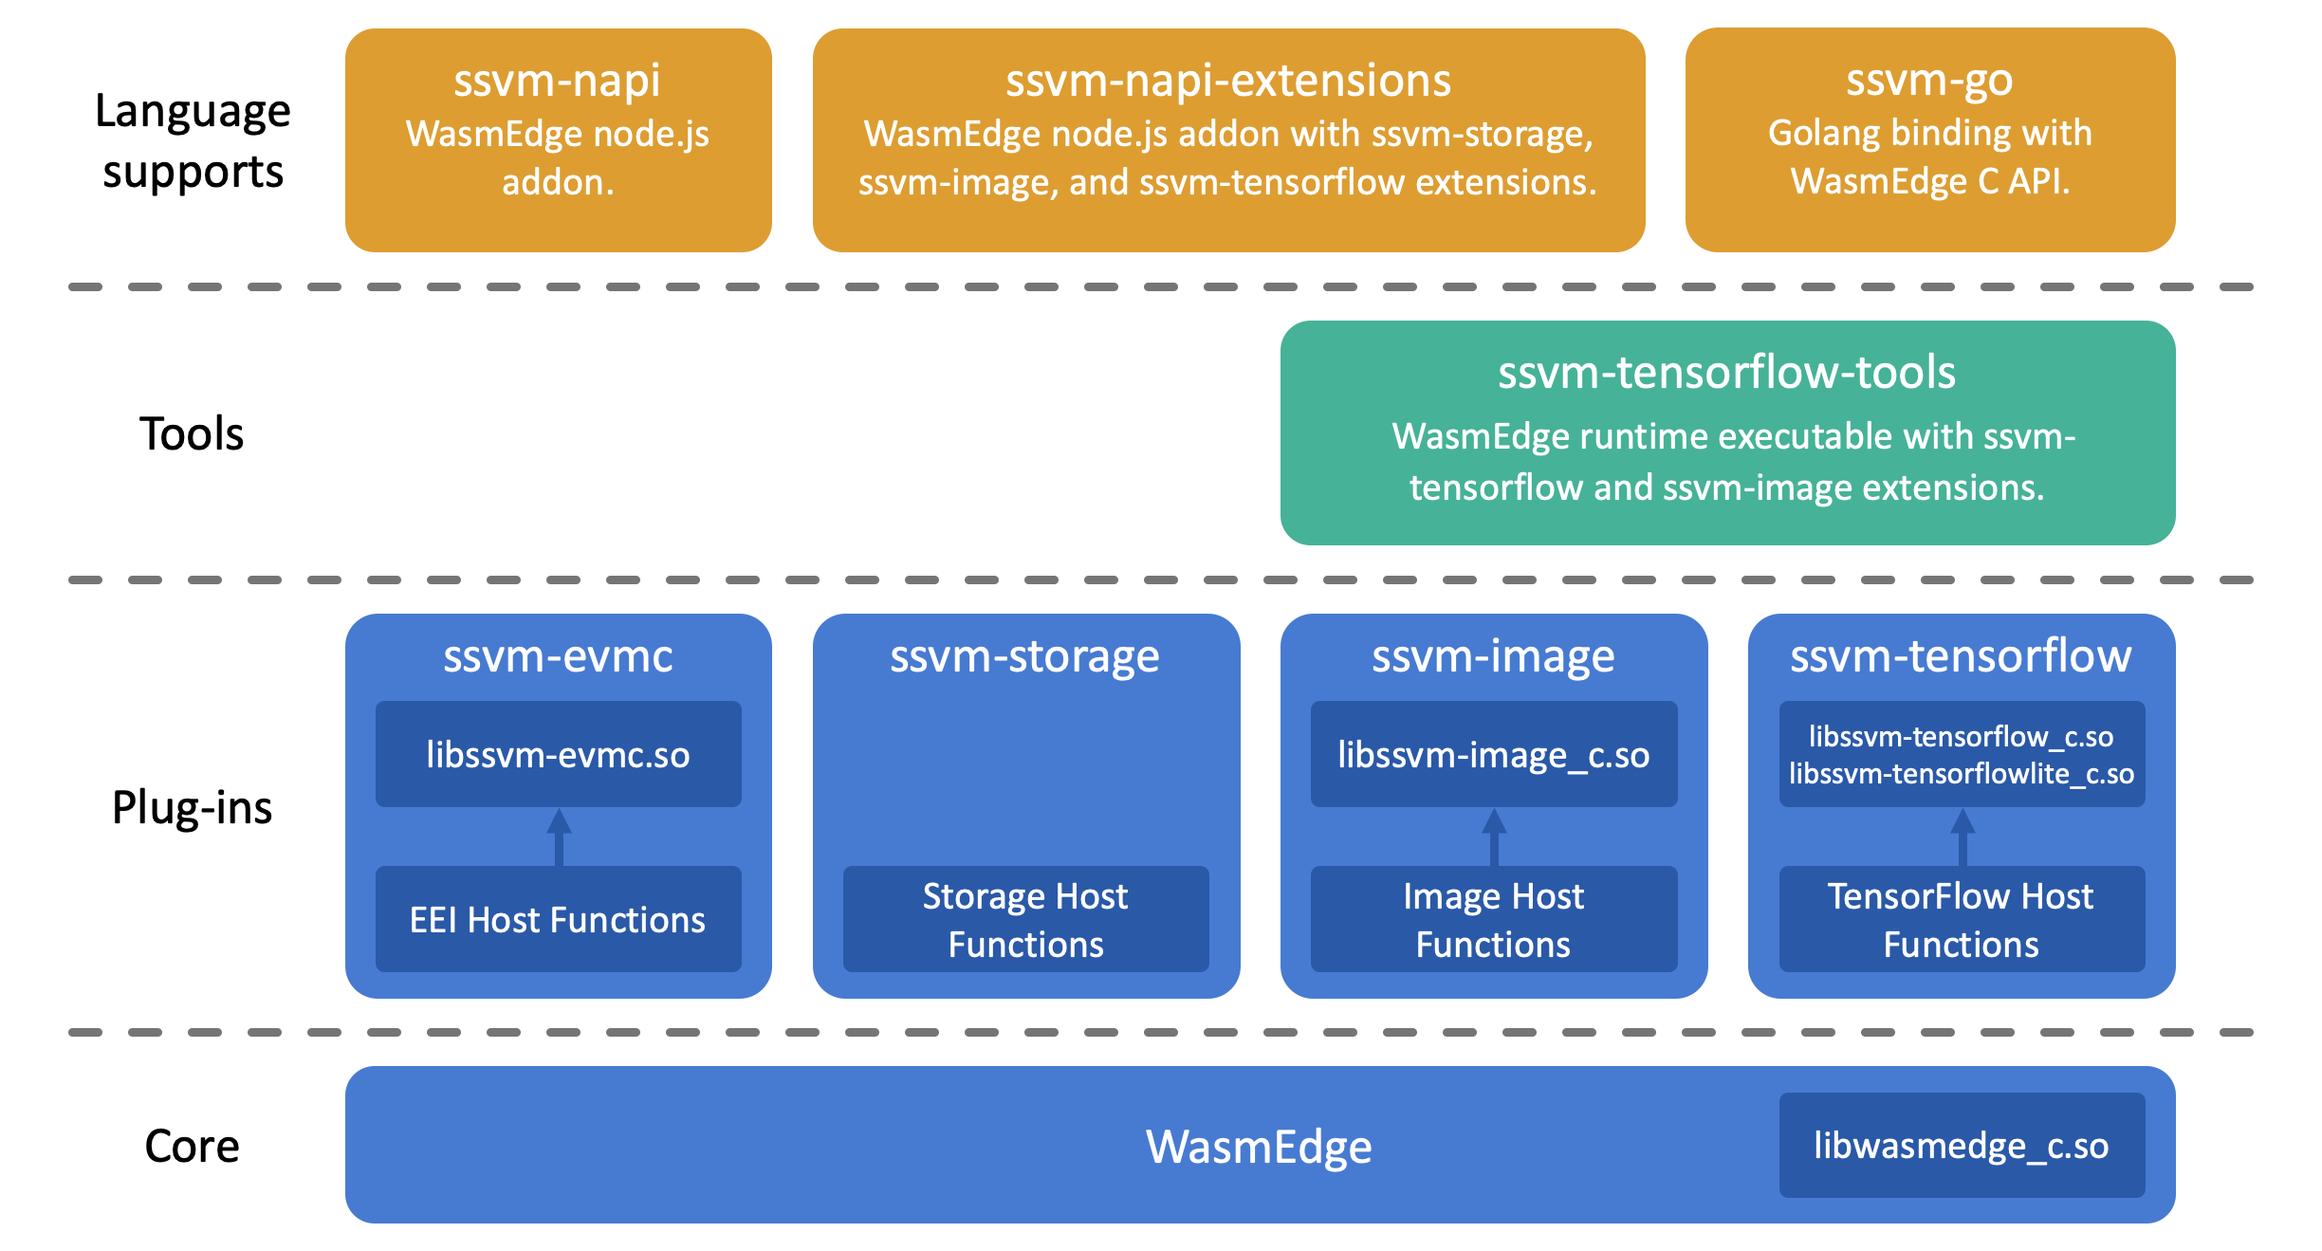
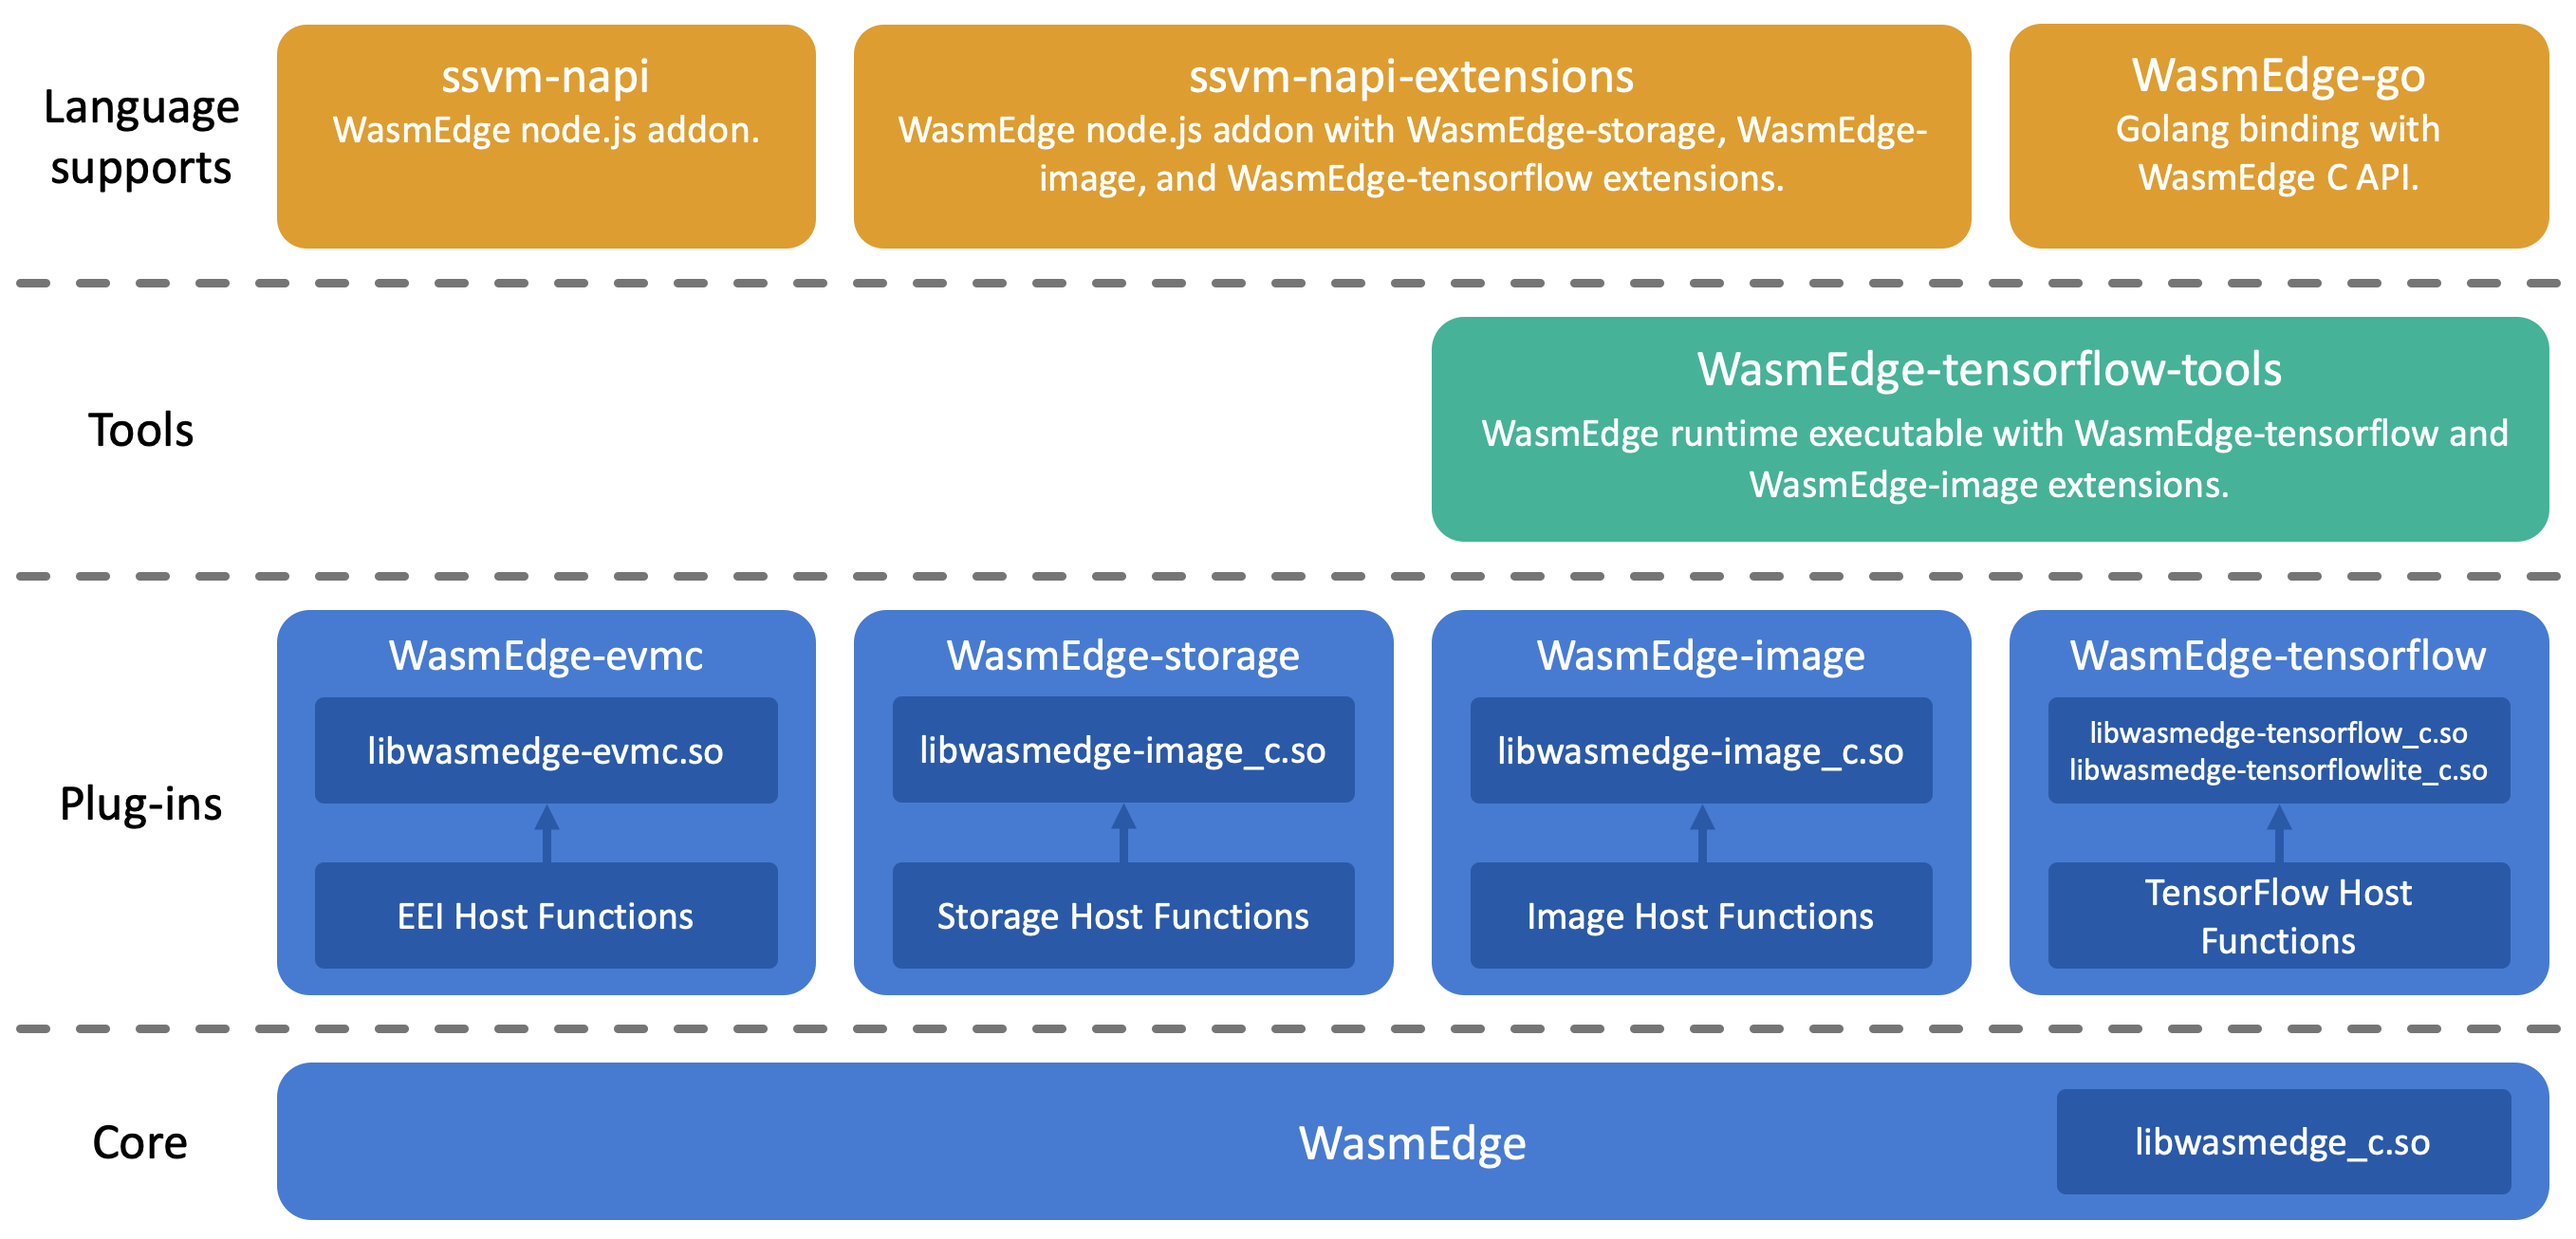
[Doc] Update the ecosystem documentation.

diff --git a/doc/ecosystem.md b/doc/ecosystem.md
@@ -8,26 +8,26 @@
 
 * Core: The [WasmEdge core project](https://github.com/WasmEdge/WasmEdge).
 * Plug-ins: The extensions of `WASM` host functions with their dependencies.
-  * [SSVM-TensorFlow](https://github.com/second-state/SSVM-tensorflow) contains the host function extensions which access to [TensorFlow C library](https://www.tensorflow.org/install/lang_c).
-  * [SSVM-Image](https://github.com/second-state/SSVM-image) contains the host function extensions about `JPEG` and `PNG` image decodings.
-  * [SSVM-Storage](https://github.com/second-state/SSVM-storage) contains the host function extensions which access to [Rust storage library](https://github.com/second-state/rust_native_storage_library).
-  * [SSVM-EVMC](https://github.com/second-state/SSVM-evmc) contains the host function extensions that are compatible with [Ethereum Environment Interface](https://github.com/ewasm/design/blob/master/eth_interface.md).
+  * [WasmEdge-TensorFlow](https://github.com/second-state/WasmEdge-tensorflow) contains the host function extensions which access to [TensorFlow C library](https://www.tensorflow.org/install/lang_c).
+  * [WasmEdge-Image](https://github.com/second-state/WasmEdge-image) contains the host function extensions about `JPEG` and `PNG` image decodings.
+  * [WasmEdge-Storage](https://github.com/second-state/WasmEdge-storage) contains the host function extensions which access to [Rust storage library](https://github.com/second-state/rust_native_storage_library).
+  * [WasmEdge-EVMC](https://github.com/second-state/WasmEdge-evmc) contains the host function extensions that are compatible with [Ethereum Environment Interface](https://github.com/ewasm/design/blob/master/eth_interface.md).
 * Tools: The runtime executables.
-  * [SSVM-TensorFlow-Tools](https://github.com/second-state/SSVM-tensorflow-tools) are the released tools to execute WASM with accessing to `TensorFlow` or `TensorFlow-Lite`.
+  * [WasmEdge-TensorFlow-Tools](https://github.com/second-state/WasmEdge-tensorflow-tools) are the released tools to execute WASM with accessing to `TensorFlow` or `TensorFlow-Lite`.
 * Language supports: The `WasmEdge` triggering in other languages.
   * [SSVM-napi](https://github.com/second-state/SSVM-napi) is the Node.js addon project for `WASM` functions accessing.
   * [SSVM-napi-extensions](https://github.com/second-state/SSVM-napi-extensions) is the Node.js addon project for `WASM` runtime with `ssvm-tensorflow`, `ssvm-image`, and `ssvm-storage` extensions.
-  * [SSVM-go](https://github.com/second-state/SSVM-go) is the [golang](https://golang.org/) binding for `WasmEdge` C API.
+  * [WasmEdge-go](https://github.com/second-state/WasmEdge-go) is the [golang](https://golang.org/) binding for `WasmEdge` C API.
 
 ## Releasing Steps
 
 1. [WasmEdge core](https://github.com/WasmEdge/WasmEdge) Releases.
 2. Release a new version of plug-ins and libraries with updating to the new `WasmEdge core`.
-    * [SSVM-Image](https://github.com/second-state/SSVM-image)
-    * [SSVM-TensorFlow](https://github.com/second-state/SSVM-tensorflow)
-    * [SSVM-Storage](https://github.com/second-state/SSVM-storage)
-    * [SSVM-EVMC](https://github.com/second-state/SSVM-evmc)
+    * [WasmEdge-Image](https://github.com/second-state/WasmEdge-image)
+    * [WasmEdge-TensorFlow](https://github.com/second-state/WasmEdge-tensorflow)
+    * [WasmEdge-Storage](https://github.com/second-state/WasmEdge-storage)
+    * [WasmEdge-EVMC](https://github.com/second-state/WasmEdge-evmc)
 3. Release a new version of tools.
-    * [SSVM-TensorFlow-Tools](https://github.com/second-state/SSVM-tensorflow-tools)
+    * [WasmEdge-TensorFlow-Tools](https://github.com/second-state/WasmEdge-tensorflow-tools)
 4. Release [SSVM-napi](https://github.com/second-state/SSVM-napi) with updating to the new `WasmEdge core`.
 5. Release [SSVM-napi-extensions](https://github.com/second-state/SSVM-napi-extensions) with updating to the new `WasmEdge core` and `SSVM-napi`.
